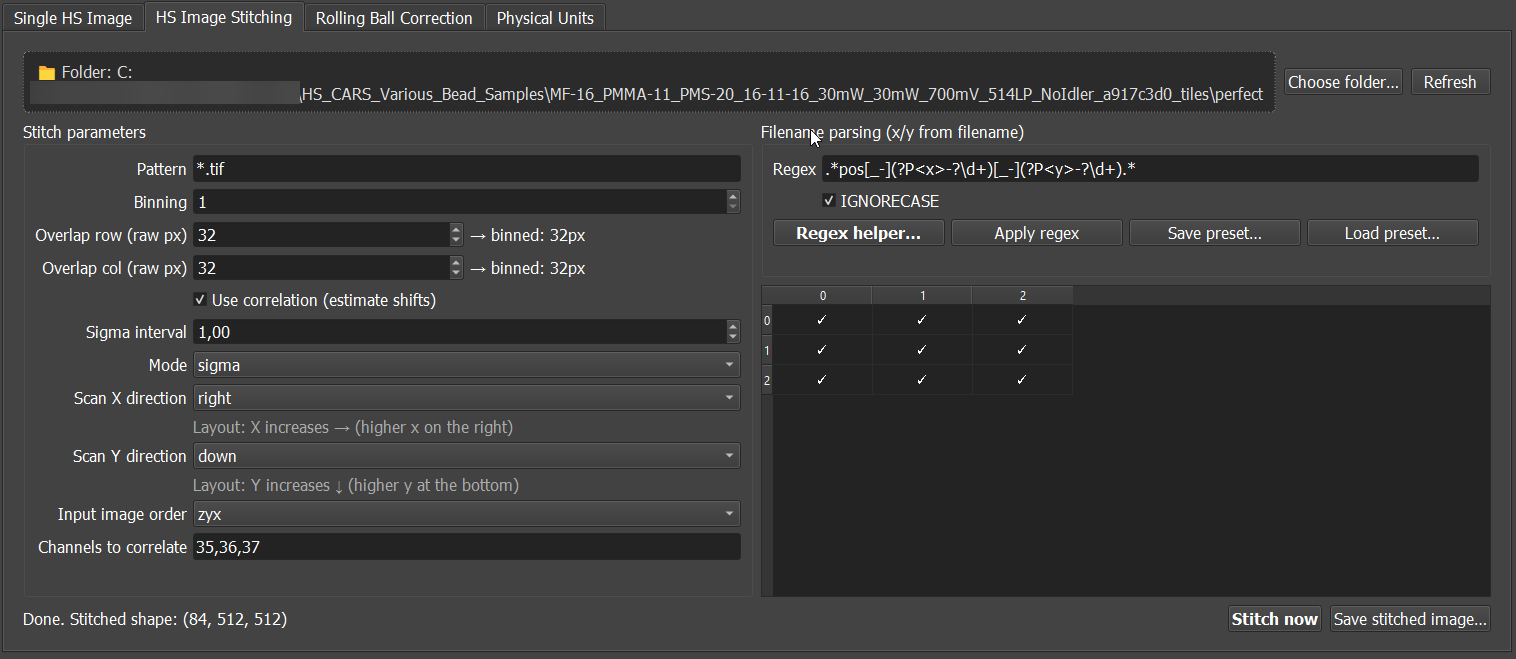
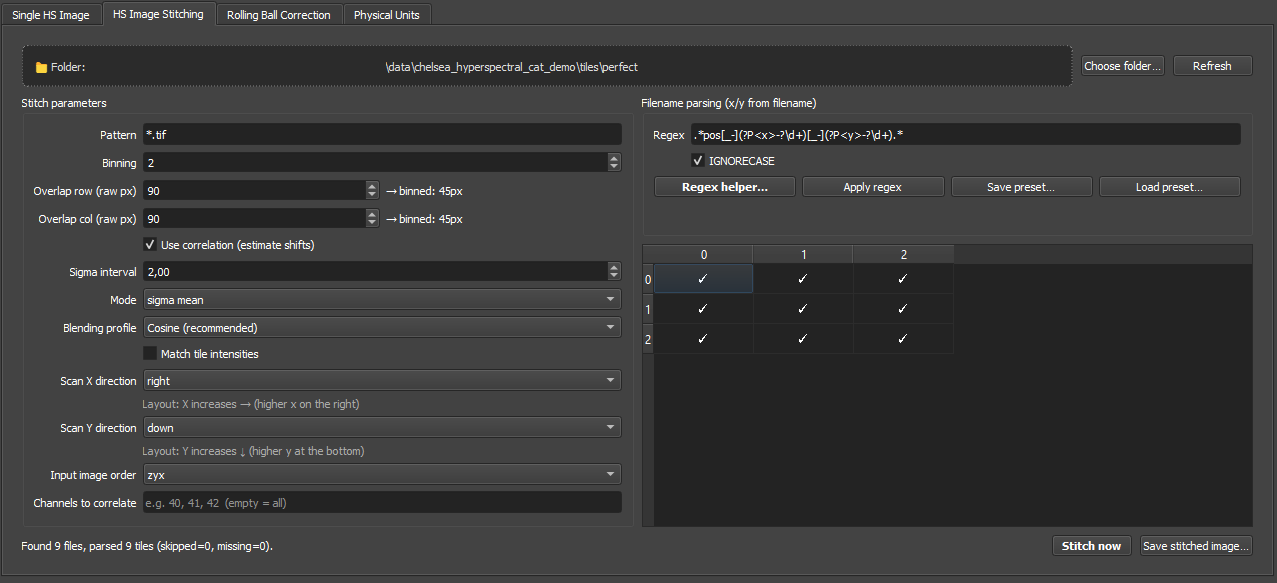
Added documentation for new blending profiles and added settings to stitch_manager.py export for presets

diff --git a/contents/stitch_manager.py b/contents/stitch_manager.py
@@ -488,6 +488,10 @@ class StitchManager(QtCore.QObject):
             "vmax": float(self.vmax_spin.value()),
             "filename_regex": self.regex_edit.text(),
             "ignorecase": bool(self.ignorecase_check.isChecked()),
+            "blending_profile": (
+                "linear" if self.blending_profile_combo.currentIndex() == 1 else "cosine"
+            ),
+            "match_tile_intensities": bool(self.match_intensity_check.isChecked()),
         }
 
     def export_state(self) -> dict:
@@ -509,6 +513,9 @@ class StitchManager(QtCore.QObject):
         self.vmax_spin.setValue(float(d.get("vmax", 2500.0)))
         self.regex_edit.setText(d.get("filename_regex", self.stitcher.filename_regex))
         self.ignorecase_check.setChecked(bool(d.get("ignorecase", True)))
+        profile = str(d.get("blending_profile", "cosine")).lower()
+        self.blending_profile_combo.setCurrentIndex(1 if profile == "linear" else 0)
+        self.match_intensity_check.setChecked(bool(d.get("match_tile_intensities", False)))
         self._apply_regex_from_ui()
         self._update_overlap_labels()
 
@@ -931,3 +938,24 @@ class RegexHelperDialog(QtWidgets.QDialog):
         self.ignorecase = self.ignorecase_check.isChecked()
         self.accept()
 
+
+
+if __name__ == '__main__':
+    # plot the 2 different weights next to each other in a 2,1 subplot
+    import matplotlib.pyplot as plt
+    fig, ax = plt.subplots(1, 2, sharey=True)
+    # linear weights
+    from cross_correlate import _blend_weights
+    lin_w = _blend_weights(100, profile="linear")
+    ax[0].plot(lin_w, label="linear")
+    # cosine weights
+    cos_w = _blend_weights(100,  profile="cosine")
+    ax[1].plot(cos_w, label="cosine")
+    ax[1].set_xlabel("overlap pixel")
+    ax[0].set_xlabel("overlap pixel")
+    ax[0].set_ylabel("weight")
+    
+    ax[0].set_title("Linear blending weights")
+    ax[1].set_title("Cosine blending weights")  
+
+    plt.show()

diff --git a/contents/cross_correlate.py b/contents/cross_correlate.py
@@ -72,6 +72,11 @@ def _match_intensity_factor(existing_overlap: np.ndarray,
     e_mean = np.nanmean(existing_overlap, axis=reduce_axes)
     i_mean = np.nanmean(incoming_overlap, axis=reduce_axes)
     with np.errstate(divide='ignore', invalid='ignore'):
+        # Per-channel scale factor that brings incoming.mean onto existing.mean.
+        # The np.where sentinel turns near-zero incoming means into NaN so the
+        # division returns NaN (not inf); those NaN channels are replaced by
+        # 1.0 on the next line so a silent channel never rescales the tile.
+        # errstate just silences the resulting numpy warnings.
         factor = e_mean / np.where(np.abs(i_mean) > eps, i_mean, np.nan)
     factor = np.where(np.isfinite(factor), factor, 1.0)
     factor = np.clip(factor, 0.1, 10.0)

diff --git a/docs/tutorials/01b_stitching_tile_folders.md b/docs/tutorials/01b_stitching_tile_folders.md
@@ -196,6 +196,18 @@ What happens if they are wrong:
 - too large overlap: excessive blending and spatial compression,
 - too much binning: faster stitching but weaker correlation precision and less sharp seams.
 
+### How precise does the overlap value need to be?
+
+The right strategy depends on whether you know the true overlap accurately:
+
+- **Overlap unknown or approximate (e.g. only the nominal stage value is available).** Use **correlation** and enter an overlap that is somewhat *larger* than your best guess (e.g. +20–40 raw pixels). The cross-correlation search is robust enough to find the true shift within an oversized search region, and the extra margin protects you against under-shoot. Erring high in correlation mode is safer than erring low.
+- **Overlap known precisely (e.g. from a calibrated stage or measured directly on a reference tile).** Enter the **exact** overlap. With correlation enabled, an oversized overlap then dilutes the score with regions that do not actually correlate, which can pull the estimated shift onto a noise peak. With correlation disabled (pure grid placement), the value sets the blend region directly, so accuracy matters even more.
+
+Rule of thumb:
+
+- *unknown*: overestimate slightly, let correlation refine.
+- *known*: enter the exact value, do not pad.
+
 ## Scan direction
 
 Scan direction controls how the parsed x/y indices are mapped into the displayed mosaic.
@@ -286,7 +298,56 @@ How to choose `Sigma interval`:
 - larger values trust more measured offsets,
 - if correlation seems unstable, try `sigma mean` first before changing the overlap values.
 
-If correlation makes the mosaic worse, disable it and use grid placement with linear blending.
+If correlation makes the mosaic worse, disable it and use grid placement with the current blending settings.
+
+
+## Blending
+
+Two controls in the stitch dialog decide how the overlapping pixels of adjacent tiles are combined into the final stitched image:
+
+- **Blending profile** (dropdown): `Cosine (recommended)` or `Linear`.
+- **Match tile intensities** (checkbox): on/off, default off.
+
+### Blending profile
+
+![Linear and cosine blending profiles](../assets/images/01b_blending_profiles.png)
+
+The weight ramp applied across the overlap region:
+
+- `Cosine` (default): a raised-cosine (Hann) curve. The two weights vary smoothly from ~1/~0 at the seam edges to 0.5/0.5 at the centre and the ramp is C¹ at the midpoint, so the human eye does not pick up the kink that a triangular ramp would leave.
+- `Linear`: the legacy triangular tent. Kept available for comparison and backwards compatibility with older results.
+
+In both cases the two weights sum to 1 at every overlap column, so the stitch is a true convex combination of the two tiles.
+
+### Match tile intensities
+
+Each incoming tile can be scaled, per channel, so that its mean intensity inside the overlap region matches the mean of the already stitched image in the same region. This step happens *before* the weighted blend.
+
+When this helps:
+
+- visible soft brightness steps at seams caused by vignetting,
+- exposure or laser-power drift between tiles,
+- tile-to-tile gain differences in the detector.
+
+When to leave it off (the default):
+
+- quantitative work where the absolute tile intensities must be preserved exactly,
+- already flat-field corrected tiles where mean intensities are guaranteed to match,
+- single-tile diagnostics, where the rescaling would be a no-op anyway.
+
+Implementation notes:
+
+- The factor is per channel, NaN-safe, and clipped to `[0.1, 10.0]`. A degenerate channel (mean ~ 0 on either side, or any non-finite intermediate) falls back to a factor of 1.0, so the step never invents or kills signal.
+- Only the incoming tile is rescaled; the running stitch is never modified by this step. This keeps the result reproducible regardless of the tile order, up to the natural pairwise drift of the rescaling chain.
+
+### How to choose
+
+| Symptom | Try |
+|---|---|
+| Sharp kink visible at the seam centre | Cosine profile |
+| Soft brightness step across the seam | Match tile intensities |
+| Both | Cosine + Match tile intensities |
+| Need absolute intensity preservation | Cosine + leave matching off |
 
 ## Saving and reusing stitch settings
 
@@ -301,6 +362,8 @@ The stitching tab has its own JSON preset. This stores:
 - Channels to correlate.
 - Filename regex.
 - IGNORECASE setting.
+- Blending profile (cosine / linear).
+- Match tile intensities (on / off).
 
 Use stitching presets when the microscope filename pattern and tile geometry are stable across datasets.
 
@@ -326,10 +389,12 @@ If the grid is mirrored:
 
 If seams are visible:
 
-- Check overlap values.
+- Check overlap values (overestimate slightly when using correlation, set the exact value when the overlap is known).
 - Check binning.
 - Try correlation.
 - Restrict correlation to structural channels.
+- Switch the Blending profile to `Cosine` if it is still on `Linear`.
+- Enable `Match tile intensities` if the seam looks like a soft brightness step (typical for vignetting or exposure drift). Leave it off for quantitative work.
 - Inspect whether rolling-ball correction or normalization should be applied consistently.
 
 If spectral channels look wrong: